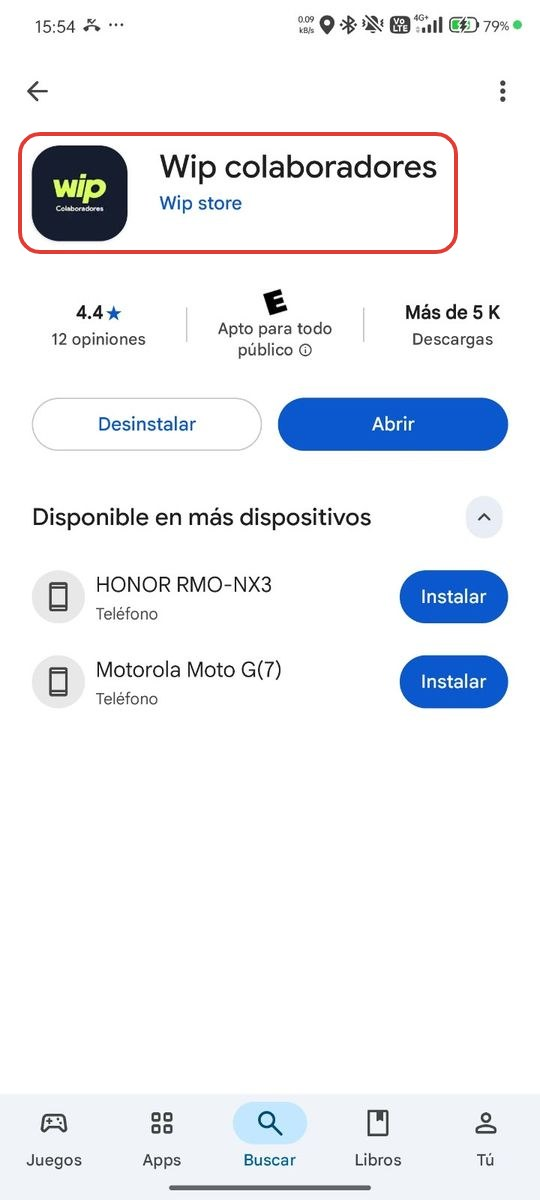
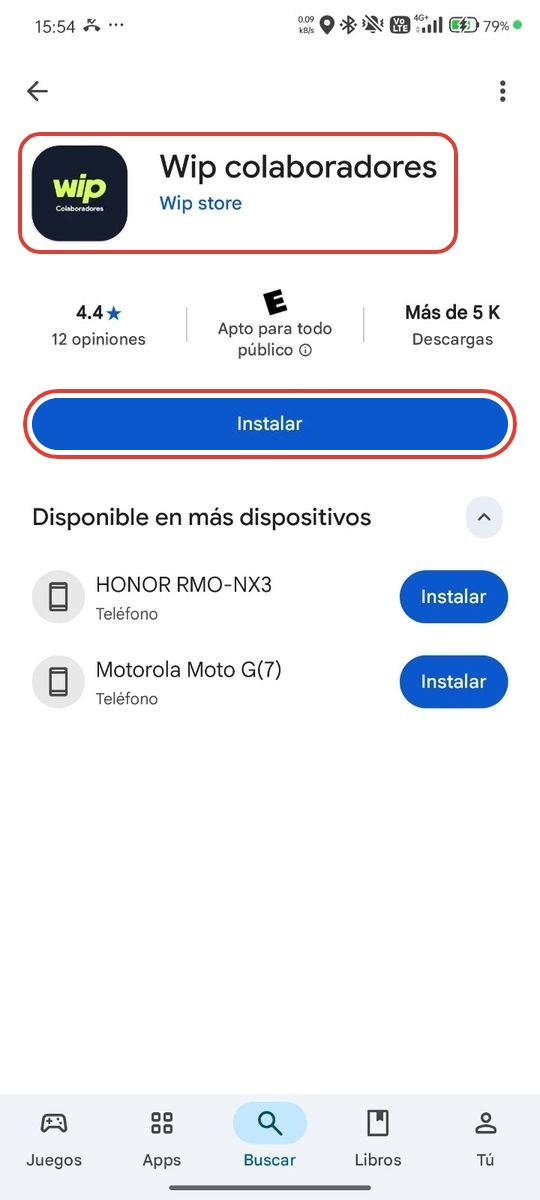
Academy: la captura del paso 2 de la guía de colaboradores muestra el botón Instalar (antes Desinstalar/Abrir) y el texto vuelve a "presiona Instalar"

Changed region(s): [[0.0296, 0.3083, 0.9778, 0.4008]]

diff --git a/academy/guia-colaborador/index.html b/academy/guia-colaborador/index.html
@@ -254,7 +254,7 @@ h1{font-size:clamp(28px,4.6vw,48px);font-weight:800;letter-spacing:-0.03em;line-
         <h1>Descarga la app y conéctate con tu empresa</h1>
         <p>Sigue estos 9 pasos desde tu celular para empezar a recibir y gestionar servicios en WIP.</p>
         <div class="guide__actions">
-          <a class="btn-guide" href="/img/academy/guia-colaborador-wip.jpg?v=3" download="guia-wip-colaboradores.jpg" data-ev="academy_guia_descarga"><svg viewBox="0 0 24 24" width="18" height="18" aria-hidden="true"><path fill="currentColor" d="M5 20h14v-2H5Zm7-3 6-6-1.4-1.4-3.6 3.6V4h-2v9.2L7.4 9.6 6 11Z"/></svg>Descargar guía en imagen</a>
+          <a class="btn-guide" href="/img/academy/guia-colaborador-wip.jpg?v=4" download="guia-wip-colaboradores.jpg" data-ev="academy_guia_descarga"><svg viewBox="0 0 24 24" width="18" height="18" aria-hidden="true"><path fill="currentColor" d="M5 20h14v-2H5Zm7-3 6-6-1.4-1.4-3.6 3.6V4h-2v9.2L7.4 9.6 6 11Z"/></svg>Descargar guía en imagen</a>
           <button class="btn-guide btn-guide--ghost" type="button" data-share>Compartir enlace</button>
         </div>
       </div>
@@ -265,15 +265,15 @@ h1{font-size:clamp(28px,4.6vw,48px);font-weight:800;letter-spacing:-0.03em;line-
               <h3>Busca “Wip” en la Play Store</h3>
             </div>
             <p>Abre la Play Store en tu celular y escribe “wip” en el buscador.</p>
-            <div class="phone"><img src="/img/academy/app/1-buscar-wip.jpg?v=2" width="540" height="1200" alt="Paso 1: Busca “Wip” en la Play Store" loading="lazy" decoding="async"></div>
+            <div class="phone"><img src="/img/academy/app/1-buscar-wip.jpg?v=3" width="540" height="1200" alt="Paso 1: Busca “Wip” en la Play Store" loading="lazy" decoding="async"></div>
           </li>
           <li class="step">
             <div class="step__head">
               <span class="step__n">2</span>
               <h3>Instala “Wip colaboradores”</h3>
             </div>
-            <p>En los resultados aparece Wip colaboradores. Tócala y presiona Instalar (o Abrir, si ya la tenías).</p>
-            <div class="phone"><img src="/img/academy/app/2-wip-colaboradores.jpg?v=2" width="540" height="1200" alt="Paso 2: Instala “Wip colaboradores”" loading="lazy" decoding="async"></div>
+            <p>En los resultados aparece Wip colaboradores. Tócala y presiona Instalar.</p>
+            <div class="phone"><img src="/img/academy/app/2-wip-colaboradores.jpg?v=3" width="540" height="1200" alt="Paso 2: Instala “Wip colaboradores”" loading="lazy" decoding="async"></div>
           </li>
           <li class="step">
             <div class="step__head">
@@ -281,7 +281,7 @@ h1{font-size:clamp(28px,4.6vw,48px);font-weight:800;letter-spacing:-0.03em;line-
               <h3>Abre la app y toca “Regístrate”</h3>
             </div>
             <p>Cuando termine la descarga, abre la app y, debajo de Iniciar sesión, toca Regístrate.</p>
-            <div class="phone"><img src="/img/academy/app/3-registrate.jpg?v=2" width="540" height="1200" alt="Paso 3: Abre la app y toca “Regístrate”" loading="lazy" decoding="async"></div>
+            <div class="phone"><img src="/img/academy/app/3-registrate.jpg?v=3" width="540" height="1200" alt="Paso 3: Abre la app y toca “Regístrate”" loading="lazy" decoding="async"></div>
           </li>
           <li class="step">
             <div class="step__head">
@@ -289,7 +289,7 @@ h1{font-size:clamp(28px,4.6vw,48px);font-weight:800;letter-spacing:-0.03em;line-
               <h3>Completa tus datos</h3>
             </div>
             <p>Escribe tu correo, tu nombre y tu apellido, y sigue los pasos hasta terminar el registro.</p>
-            <div class="phone"><img src="/img/academy/app/4-registro.jpg?v=2" width="540" height="1200" alt="Paso 4: Completa tus datos" loading="lazy" decoding="async"></div>
+            <div class="phone"><img src="/img/academy/app/4-registro.jpg?v=3" width="540" height="1200" alt="Paso 4: Completa tus datos" loading="lazy" decoding="async"></div>
           </li>
           <li class="step">
             <div class="step__head">
@@ -297,7 +297,7 @@ h1{font-size:clamp(28px,4.6vw,48px);font-weight:800;letter-spacing:-0.03em;line-
               <h3>Permite notificaciones y ubicación</h3>
             </div>
             <p>Al ingresar a la app, acepta los permisos de notificaciones y de ubicación. La app te muestra cómo dejar la ubicación activa todo el tiempo y precisa: sigue esos pasos.</p>
-            <div class="phone"><img src="/img/academy/app/5-permisos.jpg?v=2" width="540" height="1200" alt="Paso 5: Permite notificaciones y ubicación" loading="lazy" decoding="async"></div>
+            <div class="phone"><img src="/img/academy/app/5-permisos.jpg?v=3" width="540" height="1200" alt="Paso 5: Permite notificaciones y ubicación" loading="lazy" decoding="async"></div>
           </li>
           <li class="step">
             <div class="step__head">
@@ -305,7 +305,7 @@ h1{font-size:clamp(28px,4.6vw,48px);font-weight:800;letter-spacing:-0.03em;line-
               <h3>En ubicación elige “Permitir todo el tiempo”</h3>
             </div>
             <p>En Ajustes › Apps › Wip › Permisos › Ubicación, marca Permitir todo el tiempo y deja activa Ubicación precisa, para que tu ubicación se actualice aunque la app esté en segundo plano.</p>
-            <div class="phone"><img src="/img/academy/app/6-permitir-todo-el-tiempo.jpg?v=2" width="540" height="1200" alt="Paso 6: En ubicación elige “Permitir todo el tiempo”" loading="lazy" decoding="async"></div>
+            <div class="phone"><img src="/img/academy/app/6-permitir-todo-el-tiempo.jpg?v=3" width="540" height="1200" alt="Paso 6: En ubicación elige “Permitir todo el tiempo”" loading="lazy" decoding="async"></div>
           </li>
           <li class="step">
             <div class="step__head">
@@ -313,7 +313,7 @@ h1{font-size:clamp(28px,4.6vw,48px);font-weight:800;letter-spacing:-0.03em;line-
               <h3>Entra a “Mi red”</h3>
             </div>
             <p>En la pantalla de inicio toca el círculo Mi red.</p>
-            <div class="phone"><img src="/img/academy/app/7-mi-red.jpg?v=2" width="540" height="1200" alt="Paso 7: Entra a “Mi red”" loading="lazy" decoding="async"></div>
+            <div class="phone"><img src="/img/academy/app/7-mi-red.jpg?v=3" width="540" height="1200" alt="Paso 7: Entra a “Mi red”" loading="lazy" decoding="async"></div>
           </li>
           <li class="step">
             <div class="step__head">
@@ -321,7 +321,7 @@ h1{font-size:clamp(28px,4.6vw,48px);font-weight:800;letter-spacing:-0.03em;line-
               <h3>Busca tu empresa y toca “Conectar”</h3>
             </div>
             <p>Escribe el nombre de la empresa para la que trabajas y toca Conectar para enviarle tu solicitud.</p>
-            <div class="phone"><img src="/img/academy/app/8-conectar-empresa.jpg?v=2" width="540" height="1200" alt="Paso 8: Busca tu empresa y toca “Conectar”" loading="lazy" decoding="async"></div>
+            <div class="phone"><img src="/img/academy/app/8-conectar-empresa.jpg?v=3" width="540" height="1200" alt="Paso 8: Busca tu empresa y toca “Conectar”" loading="lazy" decoding="async"></div>
           </li>
           <li class="step step--done">
             <div class="step__head">
@@ -332,7 +332,7 @@ h1{font-size:clamp(28px,4.6vw,48px);font-weight:800;letter-spacing:-0.03em;line-
           </li>
       </ol>
       <div class="guide__foot">
-        <a class="btn-guide" href="/img/academy/guia-colaborador-wip.jpg?v=3" download="guia-wip-colaboradores.jpg" data-ev="academy_guia_descarga"><svg viewBox="0 0 24 24" width="18" height="18" aria-hidden="true"><path fill="currentColor" d="M5 20h14v-2H5Zm7-3 6-6-1.4-1.4-3.6 3.6V4h-2v9.2L7.4 9.6 6 11Z"/></svg>Descargar guía en imagen</a>
+        <a class="btn-guide" href="/img/academy/guia-colaborador-wip.jpg?v=4" download="guia-wip-colaboradores.jpg" data-ev="academy_guia_descarga"><svg viewBox="0 0 24 24" width="18" height="18" aria-hidden="true"><path fill="currentColor" d="M5 20h14v-2H5Zm7-3 6-6-1.4-1.4-3.6 3.6V4h-2v9.2L7.4 9.6 6 11Z"/></svg>Descargar guía en imagen</a>
         <a class="guide__back" href="/academy#colaborador">Ver los cursos en video para colaboradores →</a>
       </div>
     </div>
